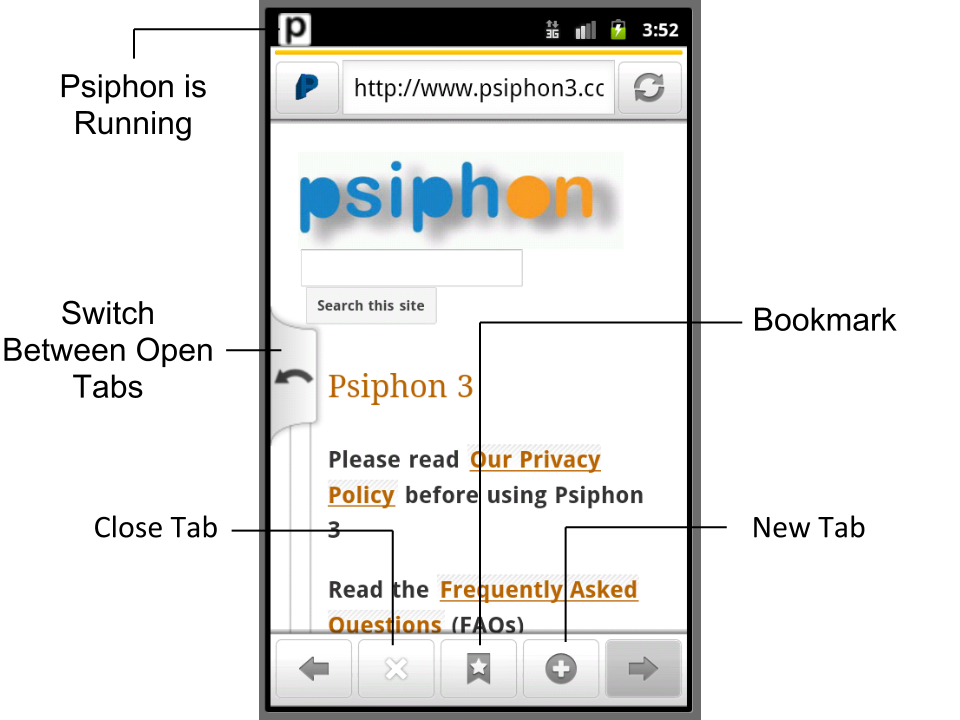
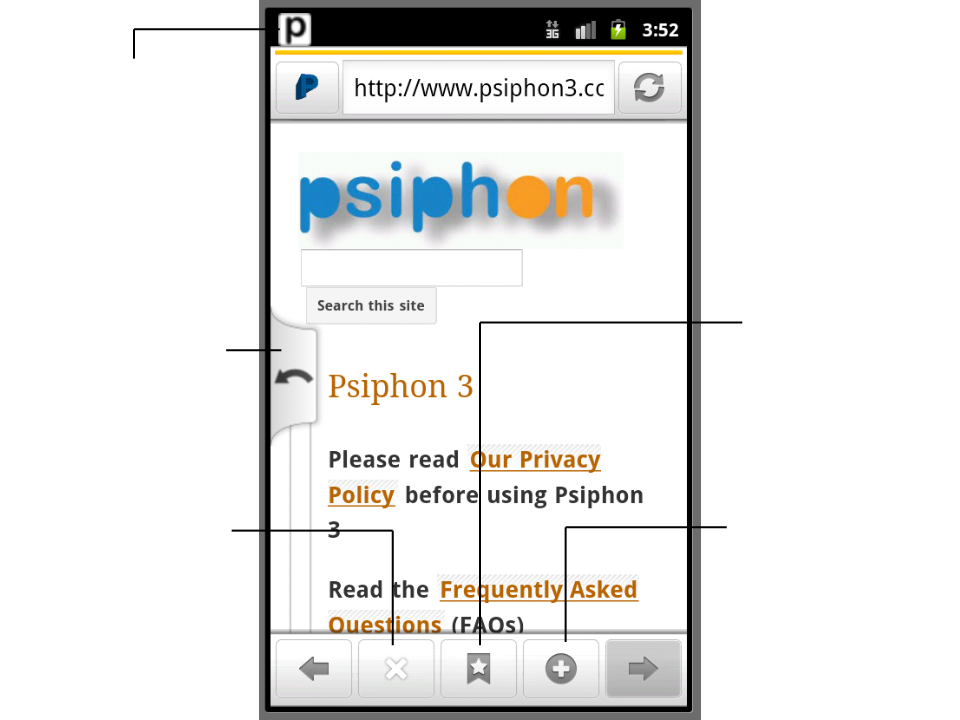
Added a couple of attempts at annotating images.

diff --git a/src/documents/styles/_annotations.less b/src/documents/styles/_annotations.less
@@ -1,0 +1,155 @@
+/*------------------------------------*\
+  ANNOTATIONS
+\*------------------------------------*/
+/* Adapted from http://csswizardry.com/2011/06/annotated-figures-in-html5-and-css/ */
+
+/*
+ * hover-annotated
+ * These annotations show a rectangle where the annotation is anchored, but the
+ * annotation is only shown when the user hovers over the anchor box.
+ */
+
+.hover-annotated {
+  position: relative;
+}
+
+.hover-annotated img {
+  /* Set this to stop white-space appearing under the image. */
+  display: block;
+}
+
+.hover-annotated b { /* Hide the figcaption’s title. */
+  position: absolute;
+  left: -99999px;
+}
+
+.hover-annotated ul { /* Set up the canvas for the annotations to sit on. */
+  list-style: none;
+  position: absolute;
+  top: 0;
+  right: 0;
+  bottom: 0;
+  left: 0;
+}
+
+@hover-annotation-border-color: #97DBFC;
+@hover-annotation-border-width: 3px;
+
+.hover-annotated li {
+  display: block;
+  line-height: 1.2em;
+  position: absolute;
+  text-indent: -99999px; /* Hide the text off-screen. */
+  cursor: default;
+  border: @hover-annotation-border-width dotted @hover-annotation-border-color;
+
+  -webkit-animation: pulsate 1.5s ease-out 0s infinite normal;
+  -moz-animation: pulsate 1.5s ease-out 0s infinite normal;
+  -o-animation: pulsate 1.5s ease-out 0s infinite normal;
+  animation: pulsate 1.5s ease-out 0s infinite normal;
+
+  opacity: 1.0;
+}
+
+.hover-annotated:hover li { /* When we hover the figure show us where the annotations are. */
+  border: @hover-annotation-border-width dashed @hover-annotation-border-color;
+  -webkit-animation-name: none;
+  -moz-animation-name: none;
+  -o-animation-name: none;
+  animation-name: none;
+}
+
+.hover-annotated li:hover { /* Show the text on hover. */
+  padding: 5px 5px;
+  background: #fff;
+  background: rgba(255,255,255,0.75);
+  font-weight: bold;
+  border: @hover-annotation-border-width solid @hover-annotation-border-color;
+
+  z-index:2; /* Bring current annotation above others. */
+
+  /* Remove the width and text-indent to show us our text! */
+  width: auto !important;
+  height: auto !important;
+  text-indent: 0;
+
+  -webkit-box-shadow: 0 0 5px rgba(0,0,0,0.25);
+     -moz-box-shadow: 0 0 5px rgba(0,0,0,0.25);
+         box-shadow: 0 0 5px rgba(0,0,0,0.25);
+}
+
+@-webkit-keyframes pulsate {
+    0% {-webkit-transform: scale(0.1, 0.1); opacity: 0.0;}
+    50% {opacity: 1.0;}
+    100% {-webkit-transform: scale(1.2, 1.2); opacity: 0.0;}
+}
+
+@-moz-keyframes pulsate {
+    0% {-moz-transform: scale(0.1, 0.1); opacity: 0.0;}
+    50% {opacity: 1.0;}
+    100% {-moz-transform: scale(1.2, 1.2); opacity: 0.0;}
+}
+
+@-o-keyframes pulsate {
+    0% {-o-transform: scale(0.1, 0.1); opacity: 0.0;}
+    50% {opacity: 1.0;}
+    100% {-o-transform: scale(1.2, 1.2); opacity: 0.0;}
+}
+
+@keyframes pulsate {
+    0% {transform: scale(0.1, 0.1); opacity: 0.0;}
+    50% {opacity: 1.0;}
+    100% {transform: scale(1.2, 1.2); opacity: 0.0;}
+}
+
+
+/*
+ * perma-annotated
+ * These annotations are always displayed.
+ */
+
+@perma-annotation-border-color: #97DBFC;
+@perma-annotation-border-width: 2px;
+
+.perma-annotated {
+  position: relative;
+}
+
+.perma-annotated img {
+  /* Set this to stop white-space appearing under the image. */
+  display: block;
+}
+
+.perma-annotated b { /* Hide the figcaption’s title. */
+  position: absolute;
+  left: -99999px;
+}
+
+.perma-annotated ul { /* Set up the canvas for the annotations to sit on. */
+  list-style: none;
+  position: absolute;
+  top: 0;
+  right: 0;
+  bottom: 0;
+  left: 0;
+}
+
+.perma-annotated li {
+  display: block;
+  line-height: 1.2em;
+  position: absolute;
+  cursor: default;
+
+  padding: 5px 5px;
+  background: #fff;
+  background: rgba(255,255,255,0.75);
+  border: @perma-annotation-border-width solid @perma-annotation-border-color;
+
+  -webkit-box-shadow: 0 0 5px rgba(0,0,0,0.25);
+     -moz-box-shadow: 0 0 5px rgba(0,0,0,0.25);
+         box-shadow: 0 0 5px rgba(0,0,0,0.25);
+}
+
+.perma-annotated li:hover {
+  z-index:2; /* Bring current annotation above others. */
+}

diff --git a/src/documents/styles/style.css.less b/src/documents/styles/style.css.less
@@ -1,6 +1,7 @@
 @import "../../files/vendor/twitter-bootstrap/less/mixins";
 @import "../../files/vendor/twitter-bootstrap/less/variables";
 @import "_rtl-support";
+@import "_annotations";
 
 @navbar-padding-add: 20px;
 
